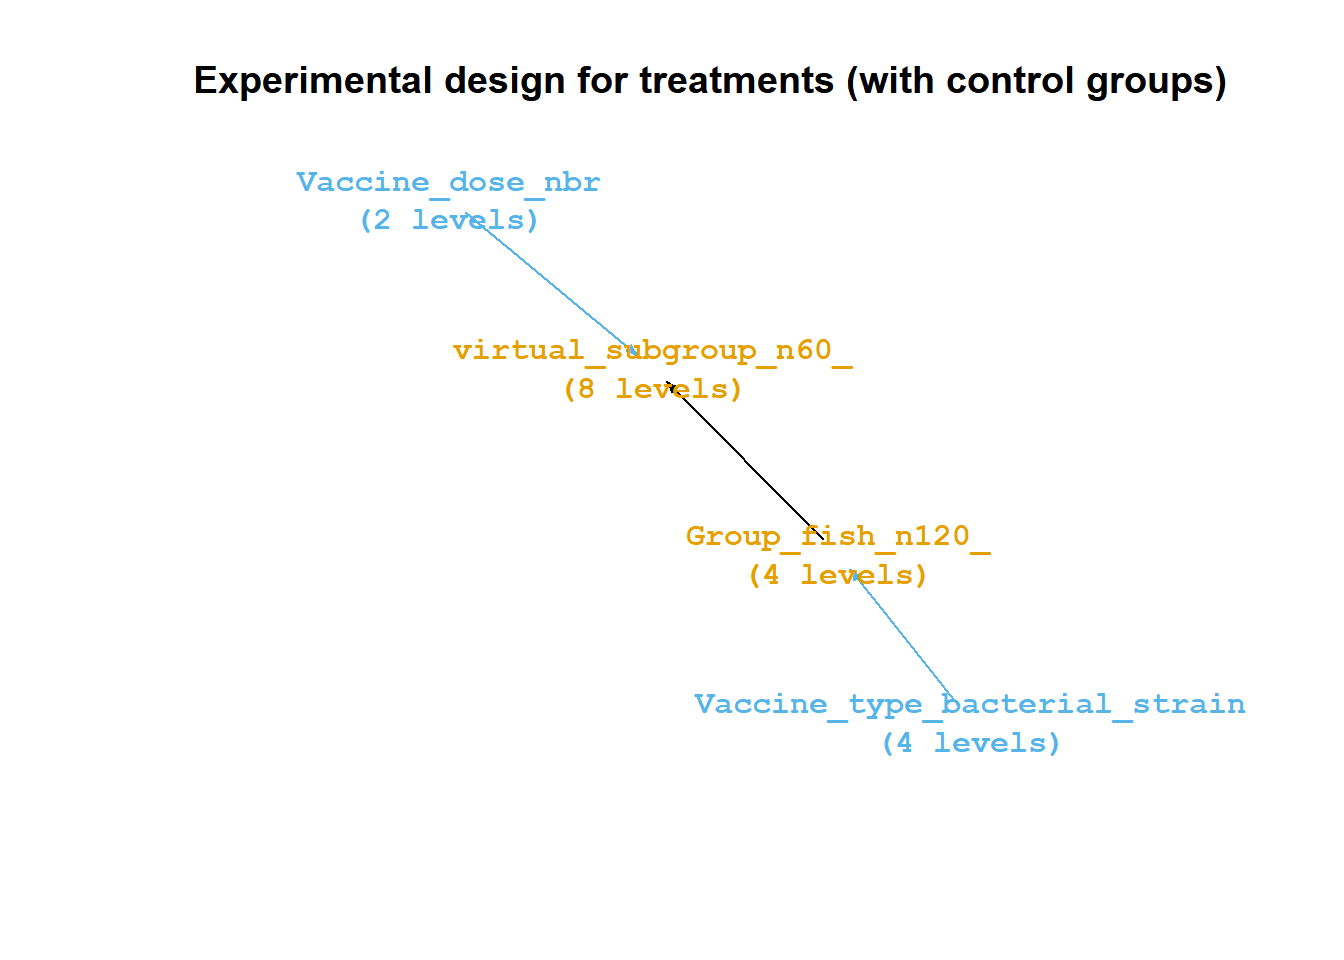
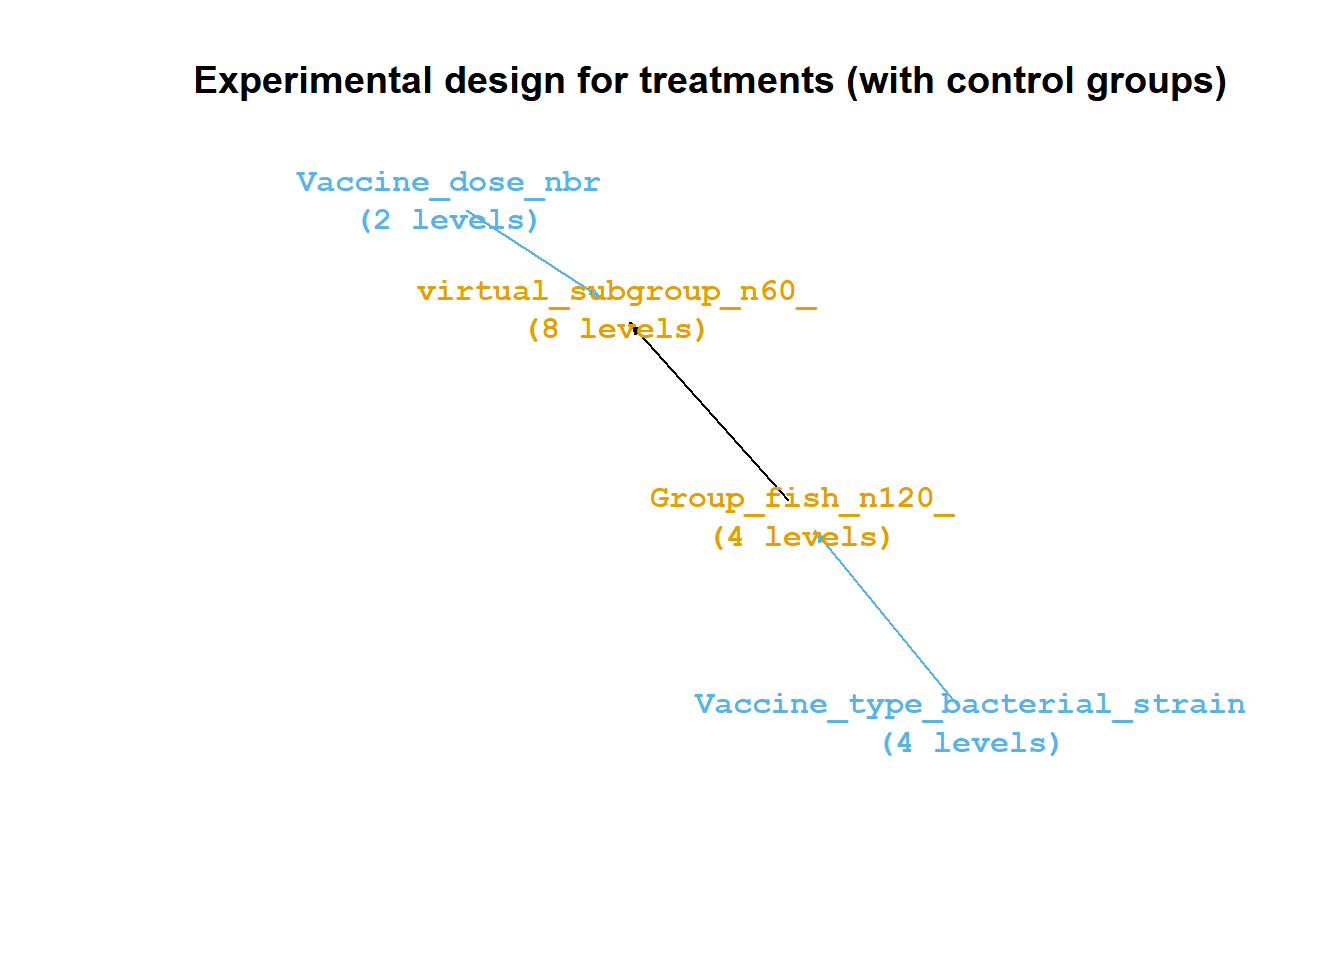
update

diff --git a/_book/project-organisation.html b/_book/project-organisation.html
@@ -289,7 +289,7 @@ Figure 3.2: Work packages tasks flow chart
 <p>The vaccination will be different for the 4 experimental groups. Each group will consist of approximately 120 individuals. Therefore, the 4 groups will be kept separately in 4 medium aquaria. The first dose will be given to all individuals in each group with either (Control, Sa, Av, Sa+Av). The second dose of vaccination (booster) will be given 3 weeks later (21 days after the end of the acclimatation of the fish to their experimental aquarium).</p>
 <div id="high-level-view-for-vaccination" class="section level4" number="3.4.1.1">
 <h4><span class="header-section-number">3.4.1.1</span> High level view (for vaccination)</h4>
-The fish can be vaccinated with only one of the four vaccine type (Control, Sa, Av, Sa+Av). Four treatment groups of 120 individuals are therefore be created. Half of the fish (n=60) for each group will receive the second dose. The fish that were not randomly selected to get the second dose of vaccine (booster) will be transferred to smaller aquaria prior to the first challenge test (week 4). <br/>
+The fish can be vaccinated with only one of the four vaccine type (Control, Sa, Av, Sa+Av). Four treatment groups of 120 individuals are therefore be created. Half of the fish (n=60) for each group will receive or not a second dose (8 subgroups). The two treatments (variables) are therefore the type of vaccine and the number of doses injected.<br/>
 <br/>
 <div class="figure"><span style="display:block;" id="fig:unnamed-chunk-7"></span>
 <img src="vaccination-high.png" alt="Experimental design for vaccination (high level)" width="\textwidth" />
@@ -300,6 +300,7 @@ Figure 3.3: Experimental design for vaccination (high level)
 </div>
 <div id="low-level-view-for-vaccination" class="section level4" number="3.4.1.2">
 <h4><span class="header-section-number">3.4.1.2</span> Low level view (for vaccination)</h4>
+<p>The fish can be vaccinated with only one of the four vaccine type (Control, Sa, Av, Sa+Av). Four treatment groups of 120 individuals are therefore be created (in blue). Half of the fish (n=60) for each group will receive the second dose (subgroups in yellow). The fish that were not randomly selected to get the second dose of vaccine (booster) will be transferred to smaller aquaria prior to the first challenge test (week 4).</p>
 <br/>
 <div class="figure"><span style="display:block;" id="fig:unnamed-chunk-8"></span>
 <img src="vaccination-low.png" alt="Experimental design for vaccination (low level)" width="\textwidth" />
@@ -311,14 +312,15 @@ Figure 3.4: Experimental design for vaccination (low level)
 </div>
 <div id="sampling-split-plot" class="section level3" number="3.4.2">
 <h3><span class="header-section-number">3.4.2</span> Sampling split-plot</h3>
+<p>The sampling consists in the extraction of fish mucus and blood. The designs are shown below.</p>
 <div id="high-level-view-for-sampling" class="section level4" number="3.4.2.1">
 <h4><span class="header-section-number">3.4.2.1</span> High level view (for sampling)</h4>
 There are 4 experimental groups (the treatments) corresponding to 4 clusters. Each single group will be sampled for mucus and blood weekly during 12 weeks. <br/>
 <br/>
 <div class="figure"><span style="display:block;" id="fig:unnamed-chunk-10"></span>
-<img src="sampling-high.png" alt="Experimental design for sampling (low level)" width="\textwidth" />
+<img src="sampling-high.png" alt="Experimental design for sampling (high level)" width="\textwidth" />
 <p class="caption">
-Figure 3.5: Experimental design for sampling (low level)
+Figure 3.5: Experimental design for sampling (high level)
 </p>
 </div>
 </div>
